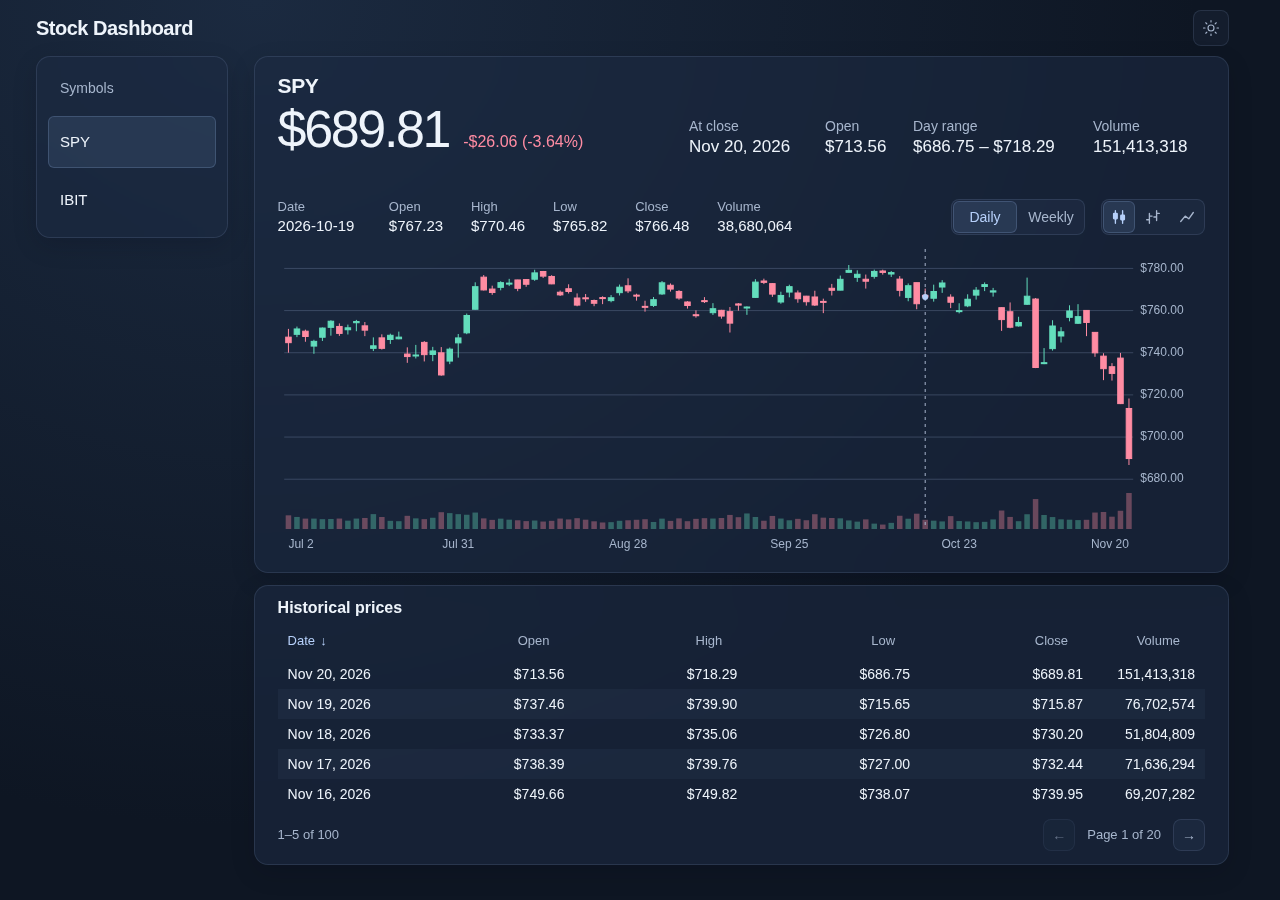
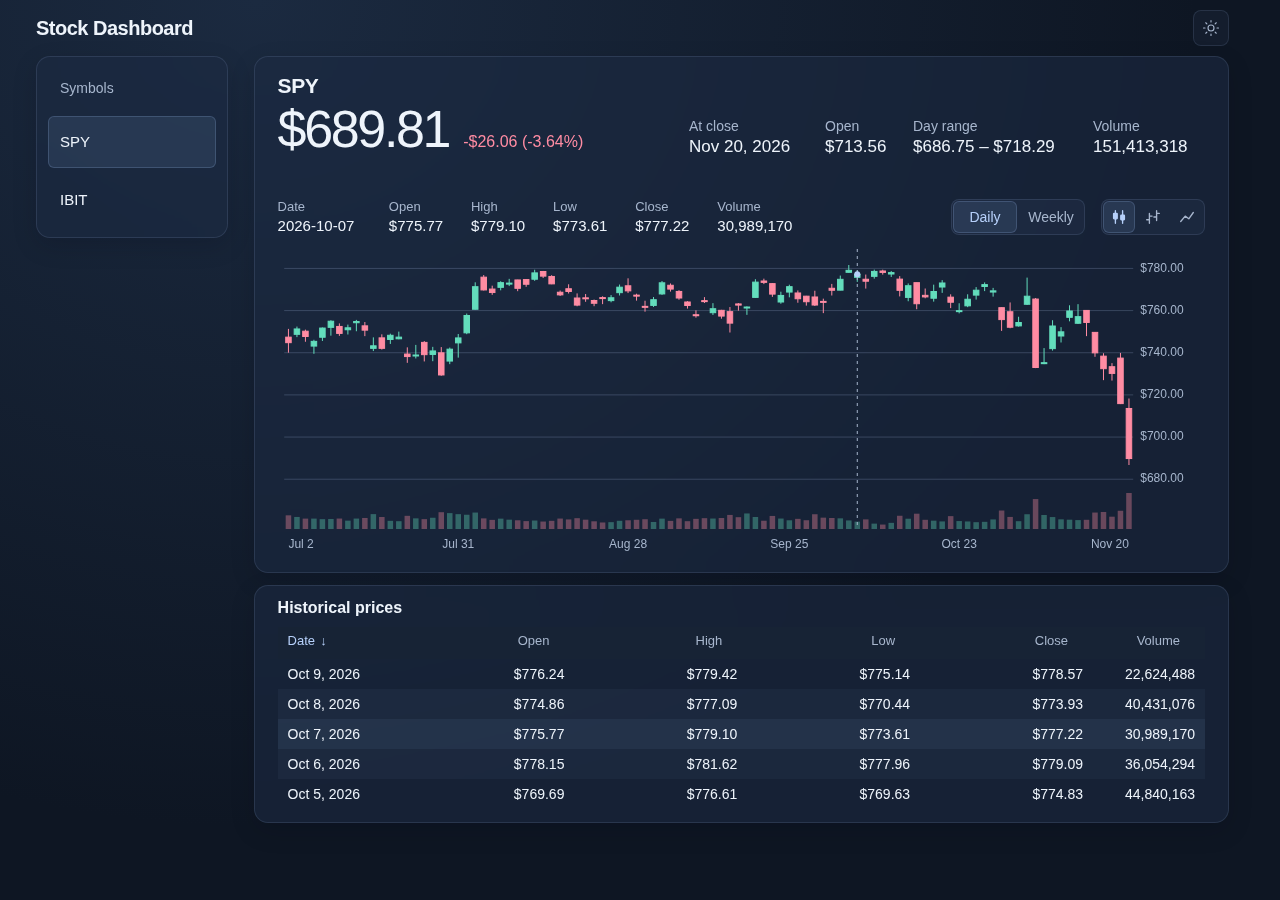
docs: document shared components and history interaction

diff --git a/src/docs/ARCHITECTURE.md b/src/docs/ARCHITECTURE.md
@@ -13,7 +13,26 @@ geometry, and React renders the SVG.
 | Data              | Selects the source, validates and normalizes observations, caches development responses, and maps failures to typed errors. | [API client](../services/stockApi.ts), [parser](../services/parseStockData.ts), [cache](../services/cache.ts)                                                                                         |
 | Request lifecycle | Tracks the current request and retry attempt, aborts superseded requests, and ignores late results.                         | [Data hook](../hooks/useStockData.ts)                                                                                                                                                                 |
 | Chart             | Computes scales and marks, measures the SVG, and handles pointer and keyboard inspection.                                   | [Chart model](../components/CandlestickChart/chartModel.ts), [chart interaction](../components/CandlestickChart/CandlestickChart.tsx), [SVG plot](../components/CandlestickChart/CandlestickPlot.tsx) |
-| Table and layout  | Sorts and pages the active history. Component styles define responsive layouts, while the theme defines shared tokens and focus treatment. | [Stock table](../components/StockTable/StockTable.tsx), [dashboard layout](../App/App.css), [theme](../styles/theme.css)                                                                              |
+| History table     | Sorts the active series and renders it in a bounded scroll area with a sticky header.                                       | [Stock table](../components/StockTable/StockTable.tsx)                                                                                                                                                 |
+
+## Shared UI
+
+`src/components/ui` holds the reusable controls and label–value display.
+`Button` wraps a native button and defaults to `type="button"`.
+`SegmentedControl` renders both the Daily/Weekly text buttons and the
+Candles/Bars/Line icon buttons. `Statistic` renders a label and value inside
+a description list, both in the daily stock summary and in the chart’s date
+and OHLCV readout.
+[Chart controls](../components/CandlestickChart/ChartControls/ChartControls.tsx) ·
+[Daily stock summary](../components/QuoteHeader/StockSummary.tsx) ·
+[Chart readout](../components/CandlestickChart/CandlestickChart.tsx)
+
+Features own their layout and domain-specific rendering. `SymbolRail` owns
+`TickerItem`, which composes `Button` with ticker details. The chart owns its
+scales, axes, and SVG marks. Component styles live alongside the components
+that use them. `index.html` loads `theme.css`, which imports those styles and
+defines shared tokens, base styles, and focus treatment.
+[Dashboard layout](../App/App.css) · [Theme stylesheet](../styles/theme.css)
 
 ## Data sources and request budget
 
@@ -63,8 +82,20 @@ geometry, and React renders the SVG.
 - **Inspection.** The chart converts pointer position into the nearest
   observation using D3's `bisectCenter`. A touch selection stays visible
   after release. Keyboard navigation updates the same readout and publishes
-  the selected date and values in a status region for screen readers. The daily
-  quote stays fixed while the user inspects the history.
+  the selected date and values in a status region for screen readers.
+- **Table selection.** Selecting a row or activating its date button pins that
+  observation. `App` stores the pin by displayed ticker, interval, and date.
+  The table marks the pinned row, and the chart uses the date to position its
+  crosshair and update the readout. Hover previews another observation and
+  restores the pin when the pointer leaves. Using the chart’s inspection keys
+  or tapping the plot replaces the pin with a chart selection. The pin also
+  clears when the displayed series changes or the selected date disappears.
+  The daily quote continues to show the latest daily observation.
+- **Table scrolling.** Sorting keeps the pin and resets the table’s vertical
+  scroll. When the displayed series changes, the table returns to newest-first
+  order and scrolls to the top. If a row had keyboard focus, focus moves to the
+  scroll region. If the table becomes empty while focus is anywhere in the
+  scroll region, focus moves to the table heading.
 - **Layout and access.** A `ResizeObserver` remeasures the plot, and the chart
   reduces tick density at smaller sizes. CSS reflows the ticker controls and
   chart readout, increases key control sizes for coarse pointers, and gives
@@ -83,8 +114,9 @@ npm run build
 Vitest covers the parser, cache, and chart calculations without a live API
 key. React Testing Library tests exercise the rendered UI with controlled
 responses. The suite checks stale requests, throttling and retry, independent
-quote and history failures, keyboard, pointer, and touch inspection, and table
-sorting and paging.
+quote and history failures, keyboard, pointer, and touch inspection, table
+sorting and row activation, chart pin restoration, full-series rendering, and
+focus recovery when the displayed series changes.
 
 [Dashboard tests](../App/App.test.tsx) · [Request tests](../hooks/useStockData.test.tsx) ·
 [Chart tests](../components/CandlestickChart/CandlestickChart.test.tsx) ·

diff --git a/README.md b/README.md
@@ -4,9 +4,9 @@ A React and TypeScript dashboard for exploring daily and weekly prices for SPY a
 
 **[Live demo](https://nlevick.github.io/stock-dashboard/)** · [Architecture](src/docs/ARCHITECTURE.md)
 
-![Stock Dashboard in dark mode with the SPY candlestick chart and historical prices table](src/docs/dashboard.png)
+![Stock Dashboard in dark mode with a historical SPY row pinned to the matching candlestick](src/docs/dashboard.png)
 
-I built it as a small, rate-limited API dashboard. It has 100 observations per series, supports keyboard and touch inspection, and shows loading and retry states.
+I built it as a small, rate-limited API dashboard. Sort and scroll the price history, then select a row to pin that date on the chart. The chart supports keyboard and touch inspection, and the dashboard shows loading and retry states.
 
 ## Run locally
 
